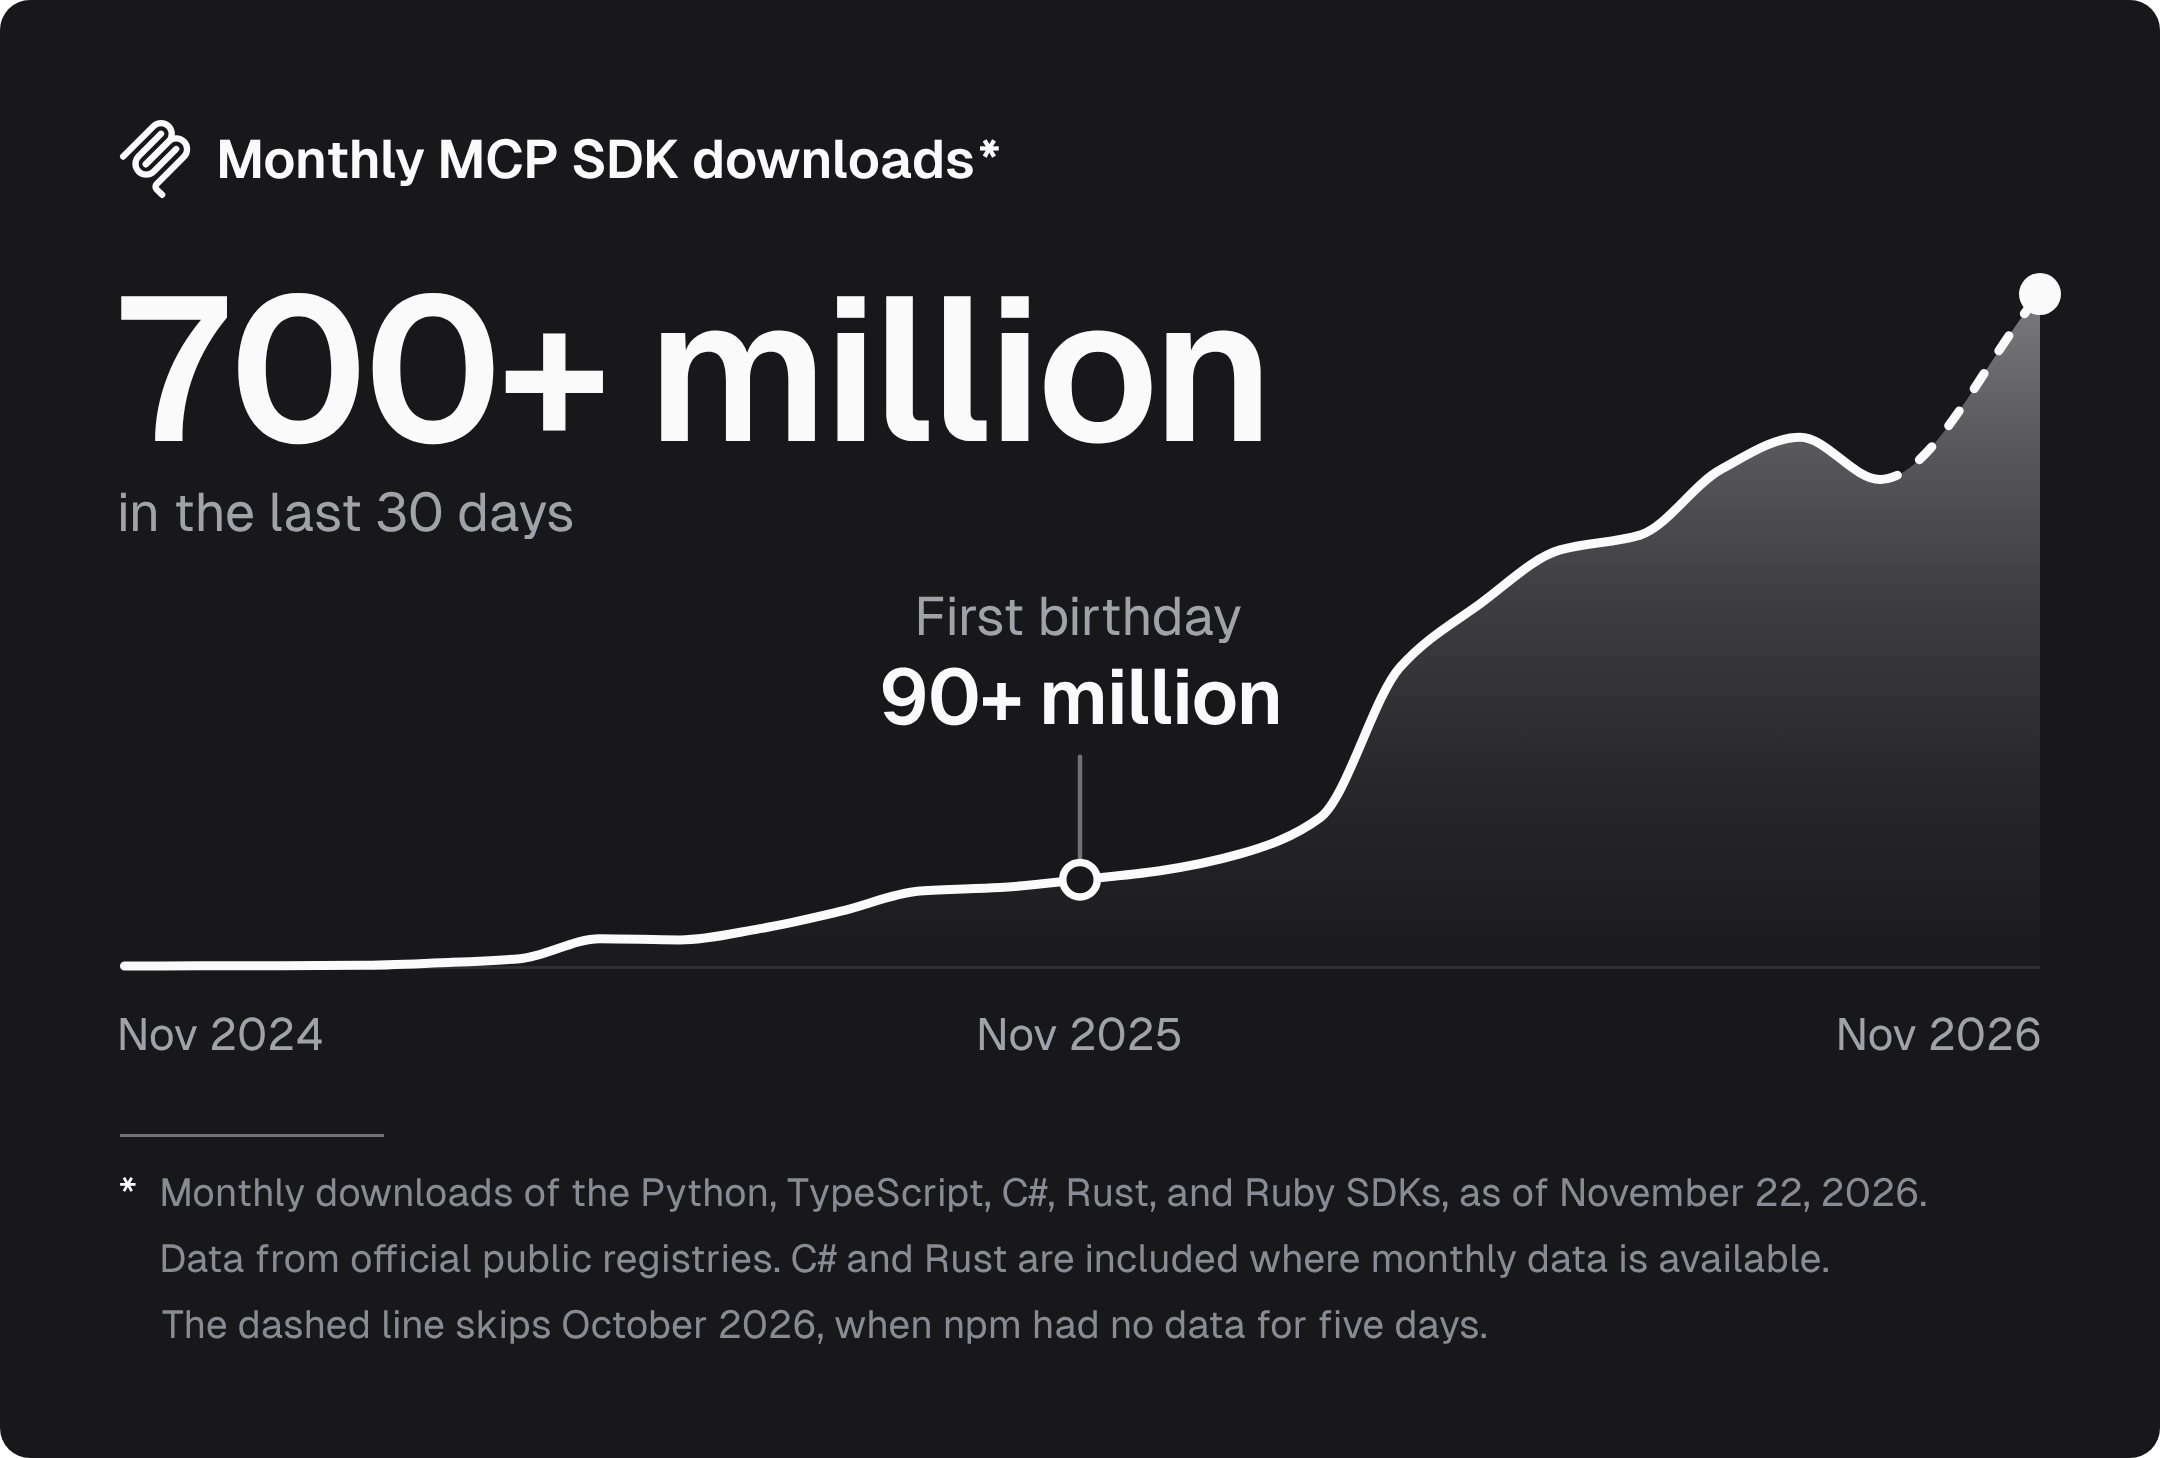
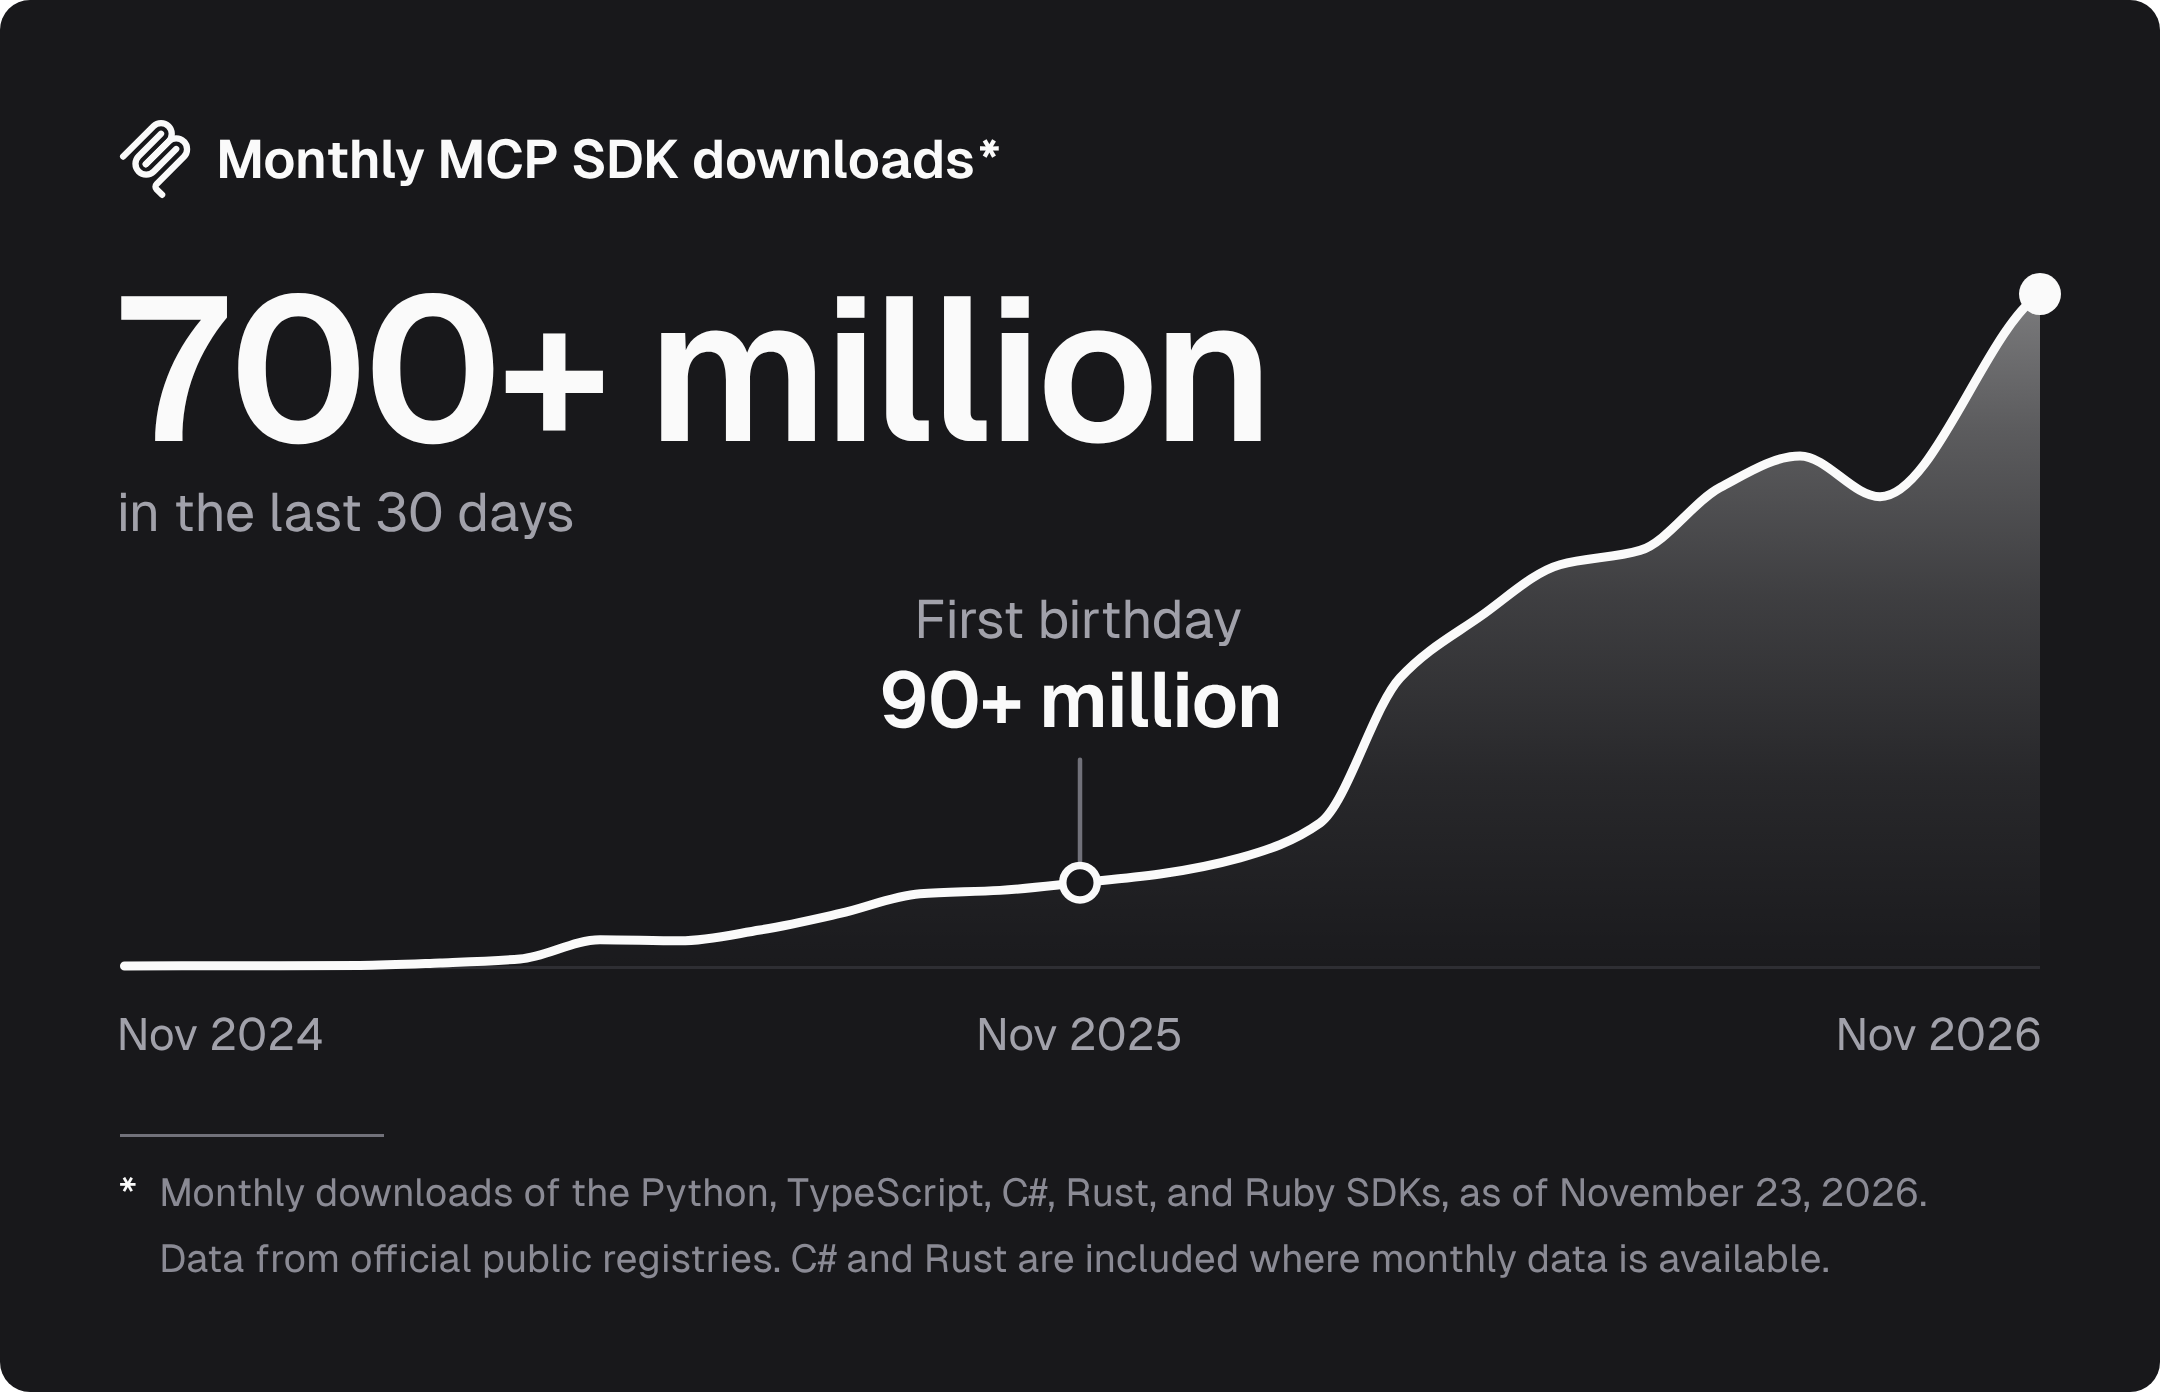
fix(blog): refresh the downloads chart from the registries
Use the registries' numbers through November 23, draw the line solid,
and shorten the footnote.

diff --git a/blog/content/posts/mcp-turns-two.md b/blog/content/posts/mcp-turns-two.md
@@ -53,8 +53,8 @@ While our first year was very much about establishing the foundations of the pro
 In fact, our SDKs just crossed 5 billion total downloads, and more than 4.5 billion of those came in the past year alone.
 
 <picture>
-  <source media="(max-width: 600px)" srcset="/posts/images/mcp-turns-two/mcp-sdk-downloads-phone.png" width="2160" height="1650">
-  <img src="/posts/images/mcp-turns-two/mcp-sdk-downloads.png" width="2160" height="1458" loading="lazy" style="max-width: 100%; height: auto" alt="Line chart of monthly MCP SDK downloads, with a shaded gradient under the line. It goes from near zero at launch in November 2024 to more than 90 million in November 2025, the month of the first birthday, and more than 700 million in the last 30 days, as of November 22, 2026. A footnote says that it covers the Python, TypeScript, C#, Rust, and Ruby SDKs, with data from official public registries, that C# and Rust are included where monthly data is available, and that the dashed line skips October 2026, when npm had no data for five days.">
+  <source media="(max-width: 600px)" srcset="/posts/images/mcp-turns-two/mcp-sdk-downloads-phone.png" width="2160" height="1575">
+  <img src="/posts/images/mcp-turns-two/mcp-sdk-downloads.png" width="2160" height="1392" loading="lazy" style="max-width: 100%; height: auto" alt="Line chart of monthly MCP SDK downloads, with a shaded gradient under the line. It goes from near zero at launch in November 2024 to more than 90 million in November 2025, the month of the first birthday, and more than 700 million in the last 30 days, as of November 23, 2026. A footnote says that it covers the Python, TypeScript, C#, Rust, and Ruby SDKs, with data from official public registries, and that C# and Rust are included where monthly data is available.">
 </picture>
 
 With so many builders behind that growth, we wanted to use this moment to highlight some of their most creative and ambitious work.
